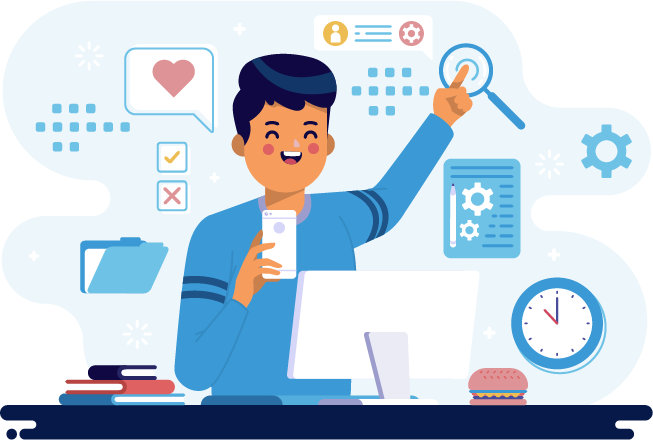
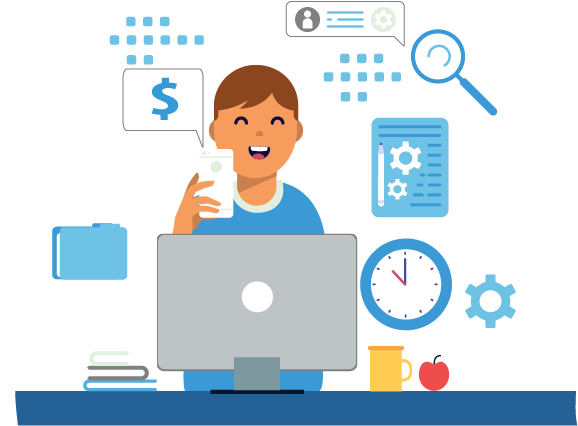
Gigs Header

diff --git a/app/containers/GigsPage/index.js b/app/containers/GigsPage/index.js
@@ -19,8 +19,6 @@ import {
   makeSelectLoading,
   makeSelectError,
 } from 'containers/App/selectors';
-import Header from 'components/Header';
-// import Header from './Header';
 import makeSelectGigsPage from './selectors';
 import reducer from './reducer';
 import saga from './saga';
@@ -33,6 +31,8 @@ import DrivingGigs from './DrivingGigs';
 import LaborGigs from './LaborGigs';
 import RentalGigs from './RentalGigs';
 import OtherGigs from './OtherGigs';
+import Img from './Img';
+import gigsheader from './gigsheader.png';
 
 const key = 'gigsPage';
 
@@ -112,7 +112,7 @@ export function GigsPage({
           content="There are a plethora of jobs available to anyone with a phone, car, and/or skill. NextWrk's Gig Page helps exposes individuals to new opportunities in the gig economy, and helps them find the best jobs for them!"
         />
       </Helmet>
-      <Header />
+      <Img src={gigsheader} alt="Gigs Page Header" />
       <Wrapper>
         <ContentWrapper>
           <NavBarLink onClick={showAll}>All</NavBarLink>

diff --git a/app/containers/GigsPage/Img.js b/app/containers/GigsPage/Img.js
@@ -1,0 +1,18 @@
+import styled from 'styled-components';
+
+import NormalImg from 'components/Img';
+
+const Img = styled(NormalImg)`
+  width: 100%;
+  margin: 0 auto;
+  display: block;
+  border-radius: 40px;
+  box-shadow: 2px 2px 3px grey;
+  @media (max-width: 768px) {
+    border: 0px solid #070600;
+    box-shadow: 0px 0px 0px grey;
+    border-radius: 0px;
+  }
+`;
+
+export default Img;

diff --git a/app/containers/GigsPage/NavBarLink.js b/app/containers/GigsPage/NavBarLink.js
@@ -12,7 +12,7 @@ export default styled.p`
   outline: 0;
   font-family: 'Helvetica Neue', Helvetica, Arial, sans-serif;
   font-size: 20px;
-  color: #070600;
+  color: #3b9ad5;
   @media (max-width: 768px) {
     padding: 3px 5px;
     font-size: 14px;
